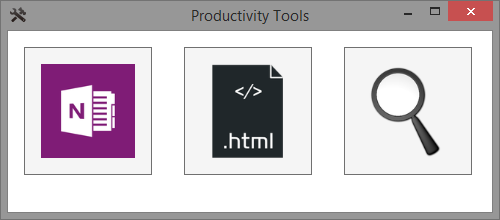
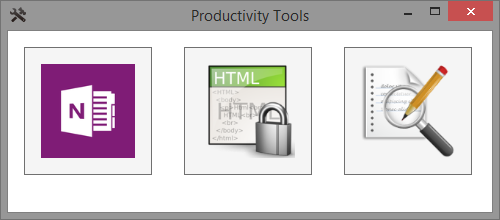
* add regex tool * some refactor

Changed region(s): [[0.39, 0.2727, 0.6, 0.7364], [0.72, 0.3, 0.93, 0.7091]]

diff --git a/Source/RegExEditor/RegExControl.xaml b/Source/RegExEditor/RegExControl.xaml
@@ -1,0 +1,75 @@
+<UserControl x:Class="RegExEditor.RegExControl"
+             xmlns="http://schemas.microsoft.com/winfx/2006/xaml/presentation"
+             xmlns:x="http://schemas.microsoft.com/winfx/2006/xaml"
+             xmlns:mc="http://schemas.openxmlformats.org/markup-compatibility/2006" 
+             xmlns:d="http://schemas.microsoft.com/expression/blend/2008" 
+             mc:Ignorable="d" 
+             d:DesignHeight="400" d:DesignWidth="600">
+
+    <UserControl.Resources>
+        <Image x:Key="refreshImg" Source="Resources/Refresh.png"/>
+        <Image x:Key="replaceImg" Source="Resources/Daytona500.png"/>
+    </UserControl.Resources>
+
+    <DockPanel>
+        <ToolBar DockPanel.Dock="Top" Height="46">
+            <Button x:Name="_refreshButton" Content="{StaticResource refreshImg}" Click="OnRefreshButton_Click" IsTabStop="False" />
+            <Button x:Name="_replaceButton" Content="{StaticResource replaceImg}" Click="OnReplaceButton_Click" IsTabStop="False" />
+        </ToolBar>
+
+        <GroupBox DockPanel.Dock="Top" Padding="5">
+            <Grid>
+                <Grid.RowDefinitions>
+                    <RowDefinition/>
+                    <RowDefinition/>
+                </Grid.RowDefinitions>
+                <Grid.ColumnDefinitions>
+                    <ColumnDefinition Width="Auto"/>
+                    <ColumnDefinition/>
+                </Grid.ColumnDefinitions>
+
+                <TextBlock Text="Regex: " DockPanel.Dock="Left" Margin="0,0,15,0" VerticalAlignment="Center"/>
+                <TextBlock Text="Replace: " DockPanel.Dock="Left" Margin="0,0,5,0" Grid.Row="1" VerticalAlignment="Center"/>
+
+                <TextBox x:Name="_regexTB" TextChanged="OnRegexTB_TextChanged" Grid.Column="1" Margin="5" TabIndex="1"/>
+                <TextBox x:Name="_replaceRegexTB" Grid.Row="1" Grid.Column="1" Margin="5" TabIndex="2"/>
+            </Grid>
+        </GroupBox>
+
+        <Grid>
+            <Grid.ColumnDefinitions>
+                <ColumnDefinition/>
+                <ColumnDefinition Width="220"/>
+            </Grid.ColumnDefinitions>
+
+            <TextBox x:Name="_textTB" AcceptsReturn="True" HorizontalScrollBarVisibility="Auto" VerticalScrollBarVisibility="Visible" Margin="0,0,3,0" TabIndex="3" />
+
+            <GridSplitter Width="3" Background="LightGray" Padding="50" IsTabStop="False" />
+
+            <ListView x:Name="_matchesLV" Grid.Column="1" HorizontalContentAlignment="Stretch" IsTabStop="False">
+                <ListView.ItemTemplate>
+                    <DataTemplate>
+                        <Border BorderBrush="LightSteelBlue" Background="Cornsilk" BorderThickness="1" Margin="1" Padding="1.5">
+                            <Grid>
+                                <Grid.RowDefinitions>
+                                    <RowDefinition/>
+                                    <RowDefinition/>
+                                </Grid.RowDefinitions>
+                                <Grid.ColumnDefinitions>
+                                    <ColumnDefinition Width="Auto"/>
+                                    <ColumnDefinition/>
+                                </Grid.ColumnDefinitions>
+
+                                <TextBlock Text="Value: " />
+                                <TextBlock Text="Index: " Grid.Row="1"/>
+
+                                <TextBlock Text="{Binding Path=Value}" Grid.Column="1" />
+                                <TextBlock Text="{Binding Path=Index}" Grid.Row="1" Grid.Column="1" />
+                            </Grid>
+                        </Border>
+                    </DataTemplate>
+                </ListView.ItemTemplate>
+            </ListView>
+        </Grid>
+    </DockPanel>
+</UserControl>

diff --git a/Source/ProductivityTools/ToolWindow.xaml b/Source/ProductivityTools/ToolWindow.xaml
@@ -1,7 +1,7 @@
 <Window x:Class="ProductivityTools.ToolWindow"
         xmlns="http://schemas.microsoft.com/winfx/2006/xaml/presentation"
         xmlns:x="http://schemas.microsoft.com/winfx/2006/xaml"
-        Title="ToolWindow" Height="600" Width="1000" Background="AliceBlue" >
+        Title="Tool: " Height="600" Width="1000" Background="AliceBlue" >
     <Grid x:Name="_grid">
         <Grid.RowDefinitions>
             <RowDefinition Height="25"/>

diff --git a/Source/ProductivityTools/MainWindow.xaml b/Source/ProductivityTools/MainWindow.xaml
@@ -19,7 +19,7 @@
             <Image Source="Resources/HTML.png"/>
         </Button>
         <Button ToolTip="RegEx editor" Click="OnRegExEditorButton_Click">
-            <Image  Source="Resources/magnifier.png"/>
+            <Image  Source="Resources/regex edit.png"/>
         </Button>
     </WrapPanel>
 </Window>

diff --git a/Source/RegExEditor/RegExControl.xaml.cs b/Source/RegExEditor/RegExControl.xaml.cs
@@ -1,0 +1,106 @@
+// "Therefore those skilled at the unorthodox
+// are infinite as heaven and earth,
+// inexhaustible as the great rivers.
+// When they come to an end,
+// they bagin again,
+// like the days and months;
+// they die and are reborn,
+// like the four seasons."
+// 
+// - Sun Tsu,
+// "The Art of War"
+
+using System;
+using System.Text.RegularExpressions;
+using System.Windows;
+using System.Windows.Controls;
+using System.Windows.Input;
+
+namespace RegExEditor
+{
+    /// <summary>
+    /// Interaction logic for RegExControl.xaml
+    /// </summary>
+    public partial class RegExControl
+    {
+        public RegExControl()
+        {
+            InitializeComponent();
+        }
+        private void OnRegexTB_TextChanged(object sender, TextChangedEventArgs e)
+        {
+            try
+            {
+                ProcessRegex();
+            }
+            catch
+            {}
+        }
+
+        private void OnRefreshButton_Click(object sender, RoutedEventArgs e)
+        {
+            try
+            {
+                ProcessRegex();
+            }
+            catch( Exception ex )
+            {
+                MessageBox.Show( ex.ToString(), "Regex failed", MessageBoxButton.OK, MessageBoxImage.Error );
+            }
+        }
+
+        private void OnReplaceButton_Click(object sender, RoutedEventArgs e)
+        {
+            if (!string.IsNullOrEmpty(_regexTB.Text) && !string.IsNullOrEmpty(_textTB.Text) )
+            {
+                try
+                {
+                    ProcessReplace();
+                    ProcessRegex();
+                }
+                catch (Exception ex)
+                {
+                    MessageBox.Show(ex.ToString(), "Regex replace failed", MessageBoxButton.OK, MessageBoxImage.Error);
+                }
+            }
+        }
+
+        private void OnKeyDown(object sender, KeyEventArgs e)
+        {
+            if( e.Key == Key.Enter )
+            {
+                OnReplaceButton_Click( sender, e );
+            }
+        }
+
+        private void ProcessRegex()
+        {
+            if (!string.IsNullOrEmpty(_regexTB.Text) && !string.IsNullOrEmpty(_textTB.Text))
+            {
+                var regex = FixRegexString( _regexTB.Text );
+                var matchCollection = Regex.Matches( _textTB.Text, regex, RegexOptions.Multiline | RegexOptions.IgnoreCase );
+                _matchesLV.ItemsSource = matchCollection;
+            }
+        }
+
+        private void ProcessReplace()
+        {
+            if (!string.IsNullOrEmpty(_regexTB.Text) && !string.IsNullOrEmpty(_textTB.Text))
+            {
+                var text = _textTB.Text;
+                var regex = FixRegexString( _regexTB.Text );
+                var replace = FixRegexString( _replaceRegexTB.Text );
+                text = Regex.Replace( text, regex, replace, RegexOptions.Multiline | RegexOptions.IgnoreCase );
+                _textTB.Text = text;
+            }
+        }
+
+        private static string FixRegexString( string regex )
+        {
+            regex = regex.Replace( "\\n", "\n" );
+            regex = regex.Replace( "\\r", "\r" );
+            regex = regex.Replace( "\\t", "\t" );
+            return regex;
+        }
+    }
+}

diff --git a/Source/RegExEditor/Properties/AssemblyInfo.cs b/Source/RegExEditor/Properties/AssemblyInfo.cs
@@ -1,0 +1,55 @@
+using System.Reflection;
+using System.Resources;
+using System.Runtime.CompilerServices;
+using System.Runtime.InteropServices;
+using System.Windows;
+
+// General Information about an assembly is controlled through the following 
+// set of attributes. Change these attribute values to modify the information
+// associated with an assembly.
+[assembly: AssemblyTitle("RegExEditor")]
+[assembly: AssemblyDescription("")]
+[assembly: AssemblyConfiguration("")]
+[assembly: AssemblyCompany("")]
+[assembly: AssemblyProduct("RegExEditor")]
+[assembly: AssemblyCopyright("Copyright ©  2014")]
+[assembly: AssemblyTrademark("")]
+[assembly: AssemblyCulture("")]
+
+// Setting ComVisible to false makes the types in this assembly not visible 
+// to COM components.  If you need to access a type in this assembly from 
+// COM, set the ComVisible attribute to true on that type.
+[assembly: ComVisible(false)]
+
+//In order to begin building localizable applications, set 
+//<UICulture>CultureYouAreCodingWith</UICulture> in your .csproj file
+//inside a <PropertyGroup>.  For example, if you are using US english
+//in your source files, set the <UICulture> to en-US.  Then uncomment
+//the NeutralResourceLanguage attribute below.  Update the "en-US" in
+//the line below to match the UICulture setting in the project file.
+
+//[assembly: NeutralResourcesLanguage("en-US", UltimateResourceFallbackLocation.Satellite)]
+
+
+[assembly:ThemeInfo(
+    ResourceDictionaryLocation.None, //where theme specific resource dictionaries are located
+                             //(used if a resource is not found in the page, 
+                             // or application resource dictionaries)
+    ResourceDictionaryLocation.SourceAssembly //where the generic resource dictionary is located
+                                      //(used if a resource is not found in the page, 
+                                      // app, or any theme specific resource dictionaries)
+)]
+
+
+// Version information for an assembly consists of the following four values:
+//
+//      Major Version
+//      Minor Version 
+//      Build Number
+//      Revision
+//
+// You can specify all the values or you can default the Build and Revision Numbers 
+// by using the '*' as shown below:
+// [assembly: AssemblyVersion("1.0.*")]
+[assembly: AssemblyVersion("1.0.0.0")]
+[assembly: AssemblyFileVersion("1.0.0.0")]

diff --git a/Source/ProductivityTools/MainWindow.xaml.cs b/Source/ProductivityTools/MainWindow.xaml.cs
@@ -14,6 +14,7 @@ using System.Windows;
 using System.Windows.Controls;
 using HtmlObfuscator;
 using OnenoteMarkdownConverter;
+using RegExEditor;
 
 namespace ProductivityTools
 {
@@ -29,25 +30,26 @@ namespace ProductivityTools
 
         private void OnOneNoteButton_Click(object sender, RoutedEventArgs e)
         {
-            OpenToolWindow(new ConverterControl());
+            OpenToolWindow("OneNote to Makdown converter",new ConverterControl());
         }
 
         private void OnHtmlObfuscatorButton_Click(object sender, RoutedEventArgs e)
         {
-            OpenToolWindow(new HtmlObfuscatorControl());
+            OpenToolWindow("HTML obfuscator", new HtmlObfuscatorControl());
         }
 
         private void OnRegExEditorButton_Click(object sender, RoutedEventArgs e)
         {
+            OpenToolWindow("RegEx editor",new RegExControl());
         }
 
         /// <summary>
         /// Open tool window with the given tool control.
         /// </summary>
-        private void OpenToolWindow(UserControl control)
+        private void OpenToolWindow(string name, UserControl control)
         {
             var toolWindow = new ToolWindow();
-            toolWindow.SetControl(control);
+            toolWindow.SetControl(name, control);
             toolWindow.Show();
             Close();
         }

diff --git a/Source/ProductivityTools/ToolWindow.xaml.cs b/Source/ProductivityTools/ToolWindow.xaml.cs
@@ -28,8 +28,9 @@ namespace ProductivityTools
         /// <summary>
         /// Set the given control to be shown in the tool window.
         /// </summary>
-        public void SetControl(UserControl control)
+        public void SetControl(string name, UserControl control)
         {
+            Title += name;
             Grid.SetRow(control, 1);
             _grid.Children.Add(control);
         }
